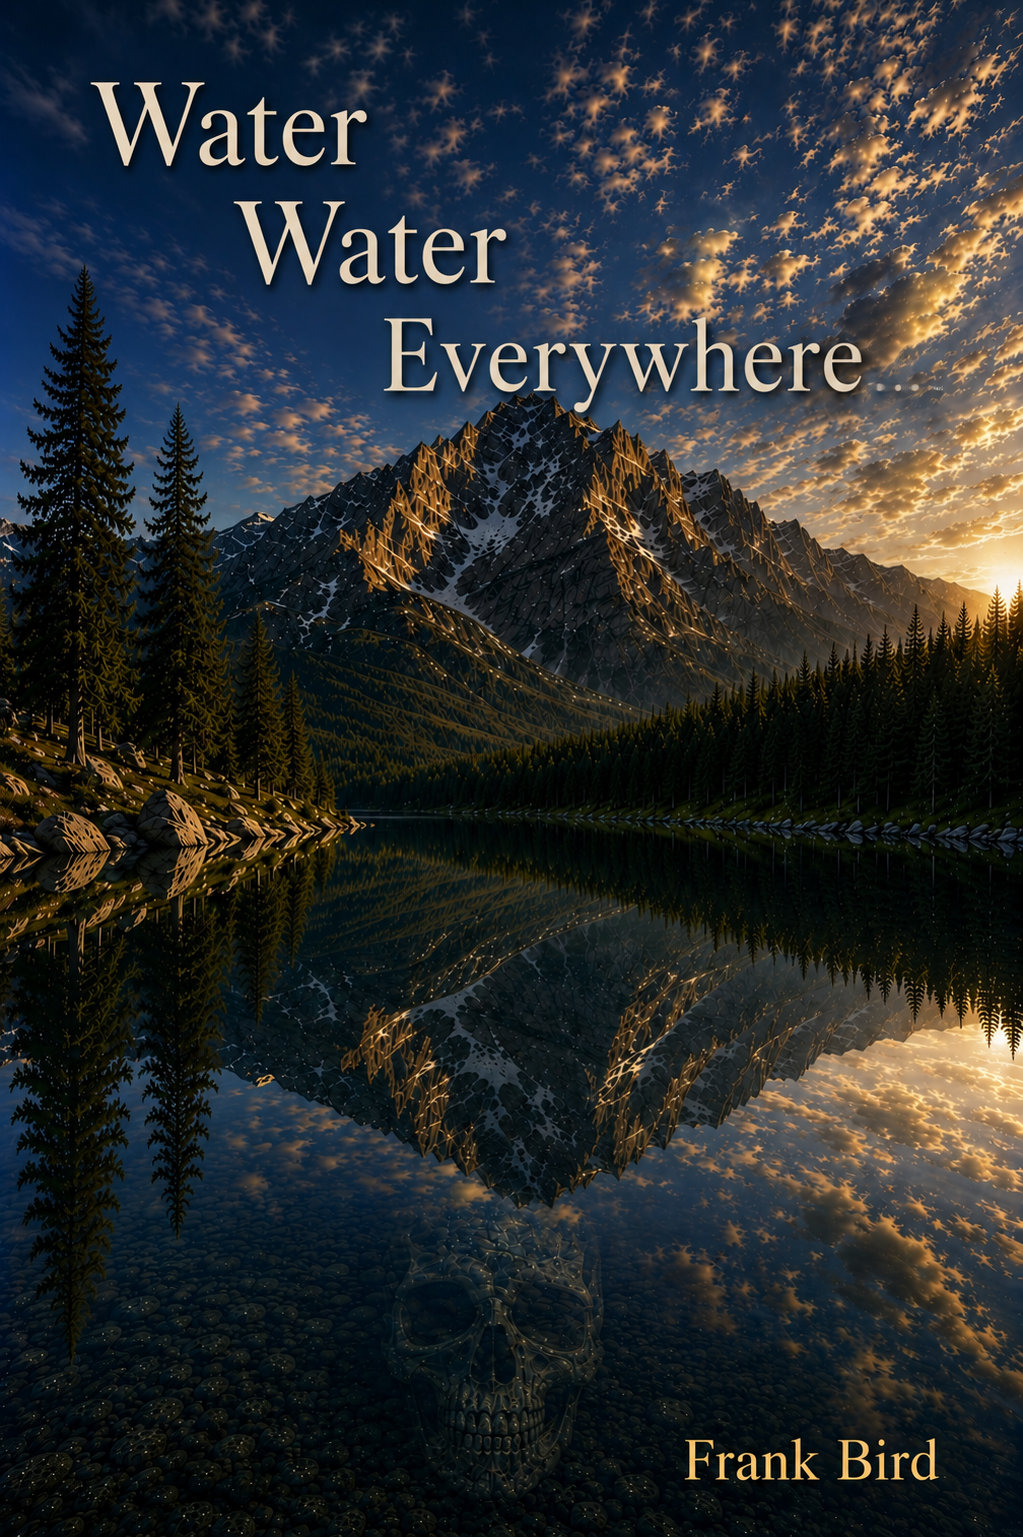
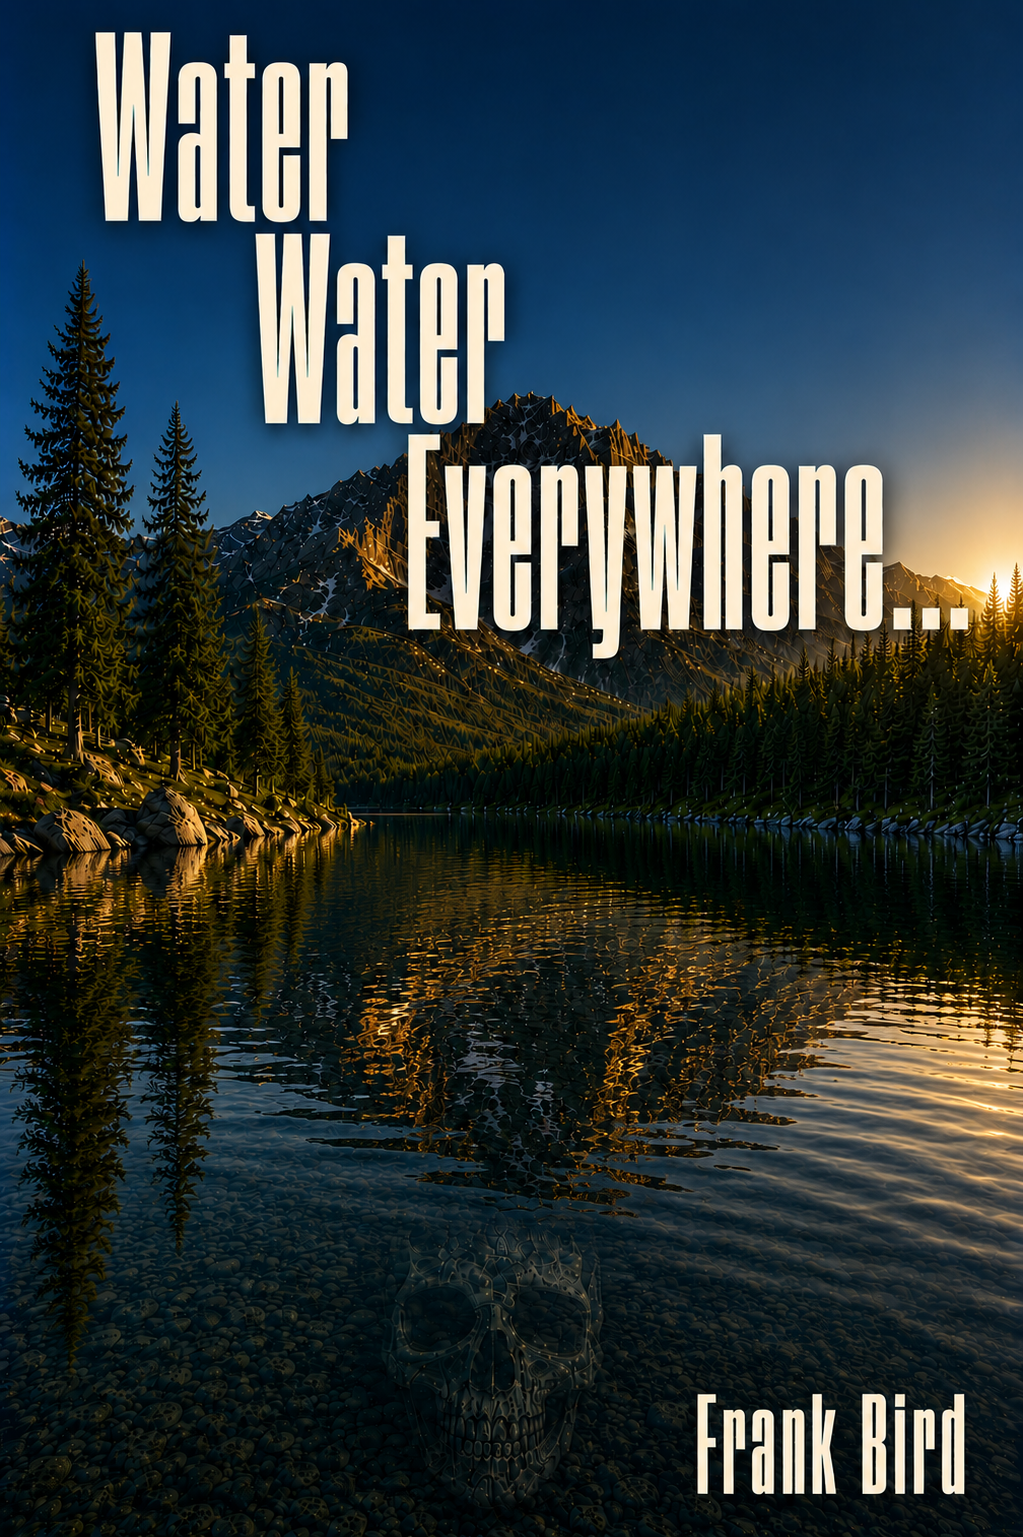
cover pic

diff --git a/index.html b/index.html
@@ -360,7 +360,7 @@
 
 
         </p>
-        <p class="version">v0.10</p>
+        <p class="version">v0.11</p>
     </main>
 
 
